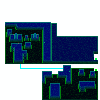
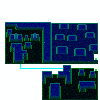
include a secondary byte for rails to store movement direction, and update the floor file to match (also including puzzle progress)

Changed region(s): [[0.54, 0.21, 0.99, 0.42], [0.72, 0.42, 0.99, 0.57], [0.54, 0.45, 0.69, 0.54]]

diff --git a/Source/GameState/MapState/MapState.cpp b/Source/GameState/MapState/MapState.cpp
@@ -179,7 +179,10 @@ void MapState::buildMap() {
 		//	bits 3-4: color (R/B/G/W)
 		//	switch bit 5 indicates switch (0) vs reset switch (1)
 		//	rail bits 5-7: initial tile offset
-		//tail byte 2+:
+		//rail secondary byte 2:
+		//	bit 1: 0 (indicates tail byte)
+		//	bit 2: direction (0 for down, 1 for up)
+		//switch tail byte 2 / rail tail byte 3+:
 		//	bit 1: 0 (indicates tail byte)
 		//	bits 2-7: group number
 		char color = (railSwitchValue >> floorRailSwitchColorDataShift) & floorRailSwitchColorPostShiftBitmask;
@@ -211,13 +214,20 @@ void MapState::buildMap() {
 		//this is a rail
 		} else {
 			short newRailId = (short)rails.size() | railIdValue;
-			char initialTileOffset =
-				(railSwitchValue >> floorRailInitialTileOffsetDataShift) & floorRailInitialTileOffsetPostShiftBitmask;
-			Rail* rail = newRail(headX, headY, heights[i], color, initialTileOffset);
-			rails.push_back(rail);
 			railSwitchIds[i] = newRailId;
 			//rails can extend in any direction after this head byte tile
 			vector<int> railIndices = parseRail(pixels, redShift, i, newRailId);
+			int railByte2Index = railIndices[0];
+			railIndices.erase(railIndices.begin());
+			//collect secondary data and build the rail
+			char initialTileOffset =
+				(railSwitchValue >> floorRailInitialTileOffsetDataShift) & floorRailInitialTileOffsetPostShiftBitmask;
+			char railByte2PostShift = (char)((pixels[railByte2Index] & redMask) >> (redShift + floorRailByte2DataShift));
+			char movementDirection = (railByte2PostShift & floorRailMovementDirectionPostShiftBitmask) * 2 - 1;
+			Rail* rail = newRail(headX, headY, heights[i], color, initialTileOffset, movementDirection);
+			rails.push_back(rail);
+			rail->addSegment(railByte2Index % width, railByte2Index / width);
+			//add all the groups
 			int floorRailGroupShiftedShift = redShift + floorRailSwitchGroupDataShift;
 			for (int railIndex : railIndices) {
 				rail->addSegment(railIndex % width, railIndex / width);
@@ -977,7 +987,7 @@ void MapState::editorSetRail(int x, int y, char color, char group) {
 	//we're adding a new rail
 	if (editingRailSwitchId == -1) {
 		railSwitchIds[railSwitchIndex] = (short)rails.size() | railIdValue;
-		rails.push_back(newRail(x, y, getHeight(x, y), color, 0));
+		rails.push_back(newRail(x, y, getHeight(x, y), color, 0, 1));
 		return;
 	}
 

diff --git a/Source/GameState/MapState/Rail.cpp b/Source/GameState/MapState/Rail.cpp
@@ -24,7 +24,8 @@ float Rail::Segment::tileCenterY() {
 }
 
 //////////////////////////////// Rail ////////////////////////////////
-Rail::Rail(objCounterParametersComma() int x, int y, char pBaseHeight, char pColor, char pInitialTileOffset)
+Rail::Rail(
+	objCounterParametersComma() int x, int y, char pBaseHeight, char pColor, char pInitialTileOffset, char pMovementDirection)
 : onlyInDebug(ObjCounter(objCounterArguments()) COMMA)
 baseHeight(pBaseHeight)
 , color(pColor)
@@ -33,6 +34,7 @@ baseHeight(pBaseHeight)
 , initialTileOffset(pInitialTileOffset)
 //give a default tile offset extending to the lowest height, we'll correct it as we add segments
 , maxTileOffset(pBaseHeight / 2)
+, movementDirection(pMovementDirection)
 , editorIsDeleted(false) {
 	segments->push_back(Segment(x, y, 0));
 }
@@ -291,12 +293,13 @@ char Rail::editorGetFloorSaveData(int x, int y) {
 		return (color << MapState::floorRailSwitchColorDataShift)
 			| (initialTileOffset << MapState::floorRailInitialTileOffsetDataShift)
 			| MapState::floorRailHeadValue;
-	else {
-		for (int i = 1; i - 1 < (int)groups.size() && i < (int)segments->size(); i++) {
-			Segment& segment = (*segments)[i];
-			if (segment.x == x && segment.y == y)
-				return groups[i - 1] << MapState::floorRailSwitchGroupDataShift | MapState::floorIsRailSwitchBitmask;
-		}
+	Segment& second = (*segments)[1];
+	if (x == second.x && y == second.y)
+		return (((movementDirection + 1) / 2) << MapState::floorRailByte2DataShift) | MapState::floorIsRailSwitchBitmask;
+	for (int i = 0; i < (int)groups.size() && i + 2 < (int)segments->size(); i++) {
+		Segment& segment = (*segments)[i + 2];
+		if (segment.x == x && segment.y == y)
+			return groups[i] << MapState::floorRailSwitchGroupDataShift | MapState::floorIsRailSwitchBitmask;
 	}
 	//no data but still part of this rail
 	return MapState::floorRailSwitchTailValue;

diff --git a/Source/GameState/MapState/Rail.h b/Source/GameState/MapState/Rail.h
@@ -1,6 +1,7 @@
 #include "General/General.h"
 
-#define newRail(x, y, baseHeight, color, initialTileOffset) newWithArgs(Rail, x, y, baseHeight, color, initialTileOffset)
+#define newRail(x, y, baseHeight, color, initialTileOffset, movementDirection) \
+	newWithArgs(Rail, x, y, baseHeight, color, initialTileOffset, movementDirection)
 #define newRailState(rail, railIndex) newWithArgs(RailState, rail, railIndex)
 
 class Rail onlyInDebug(: public ObjCounter) {
@@ -29,10 +30,18 @@ private:
 	vector<char> groups;
 	char initialTileOffset;
 	char maxTileOffset;
+	char movementDirection;
 public:
 	bool editorIsDeleted;
 
-	Rail(objCounterParametersComma() int x, int y, char pBaseHeight, char pColor, char pInitialTileOffset);
+	Rail(
+		objCounterParametersComma()
+		int x,
+		int y,
+		char pBaseHeight,
+		char pColor,
+		char pInitialTileOffset,
+		char pMovementDirection);
 	virtual ~Rail();
 
 	char getBaseHeight() { return baseHeight; }

diff --git a/Source/GameState/MapState/MapState.h b/Source/GameState/MapState/MapState.h
@@ -100,9 +100,11 @@ public:
 	static const char floorRailSwitchColorPostShiftBitmask = 0x3;
 	static const char floorRailSwitchGroupPostShiftBitmask = 0x3F;
 	static const char floorRailInitialTileOffsetPostShiftBitmask = 0x7;
+	static const char floorRailMovementDirectionPostShiftBitmask = 1;
 	static const int floorRailSwitchColorDataShift = 3;
 	static const int floorRailSwitchGroupDataShift = 2;
 	static const int floorRailInitialTileOffsetDataShift = 5;
+	static const int floorRailByte2DataShift = 2;
 	static const int floorRailHeadValue = floorRailSwitchAndHeadValue;
 	static const int floorSwitchHeadValue = floorRailSwitchAndHeadValue | floorIsSwitchBitmask;
 	static const int floorResetSwitchHeadValue = floorSwitchHeadValue | floorIsResetSwitchBitmask;
